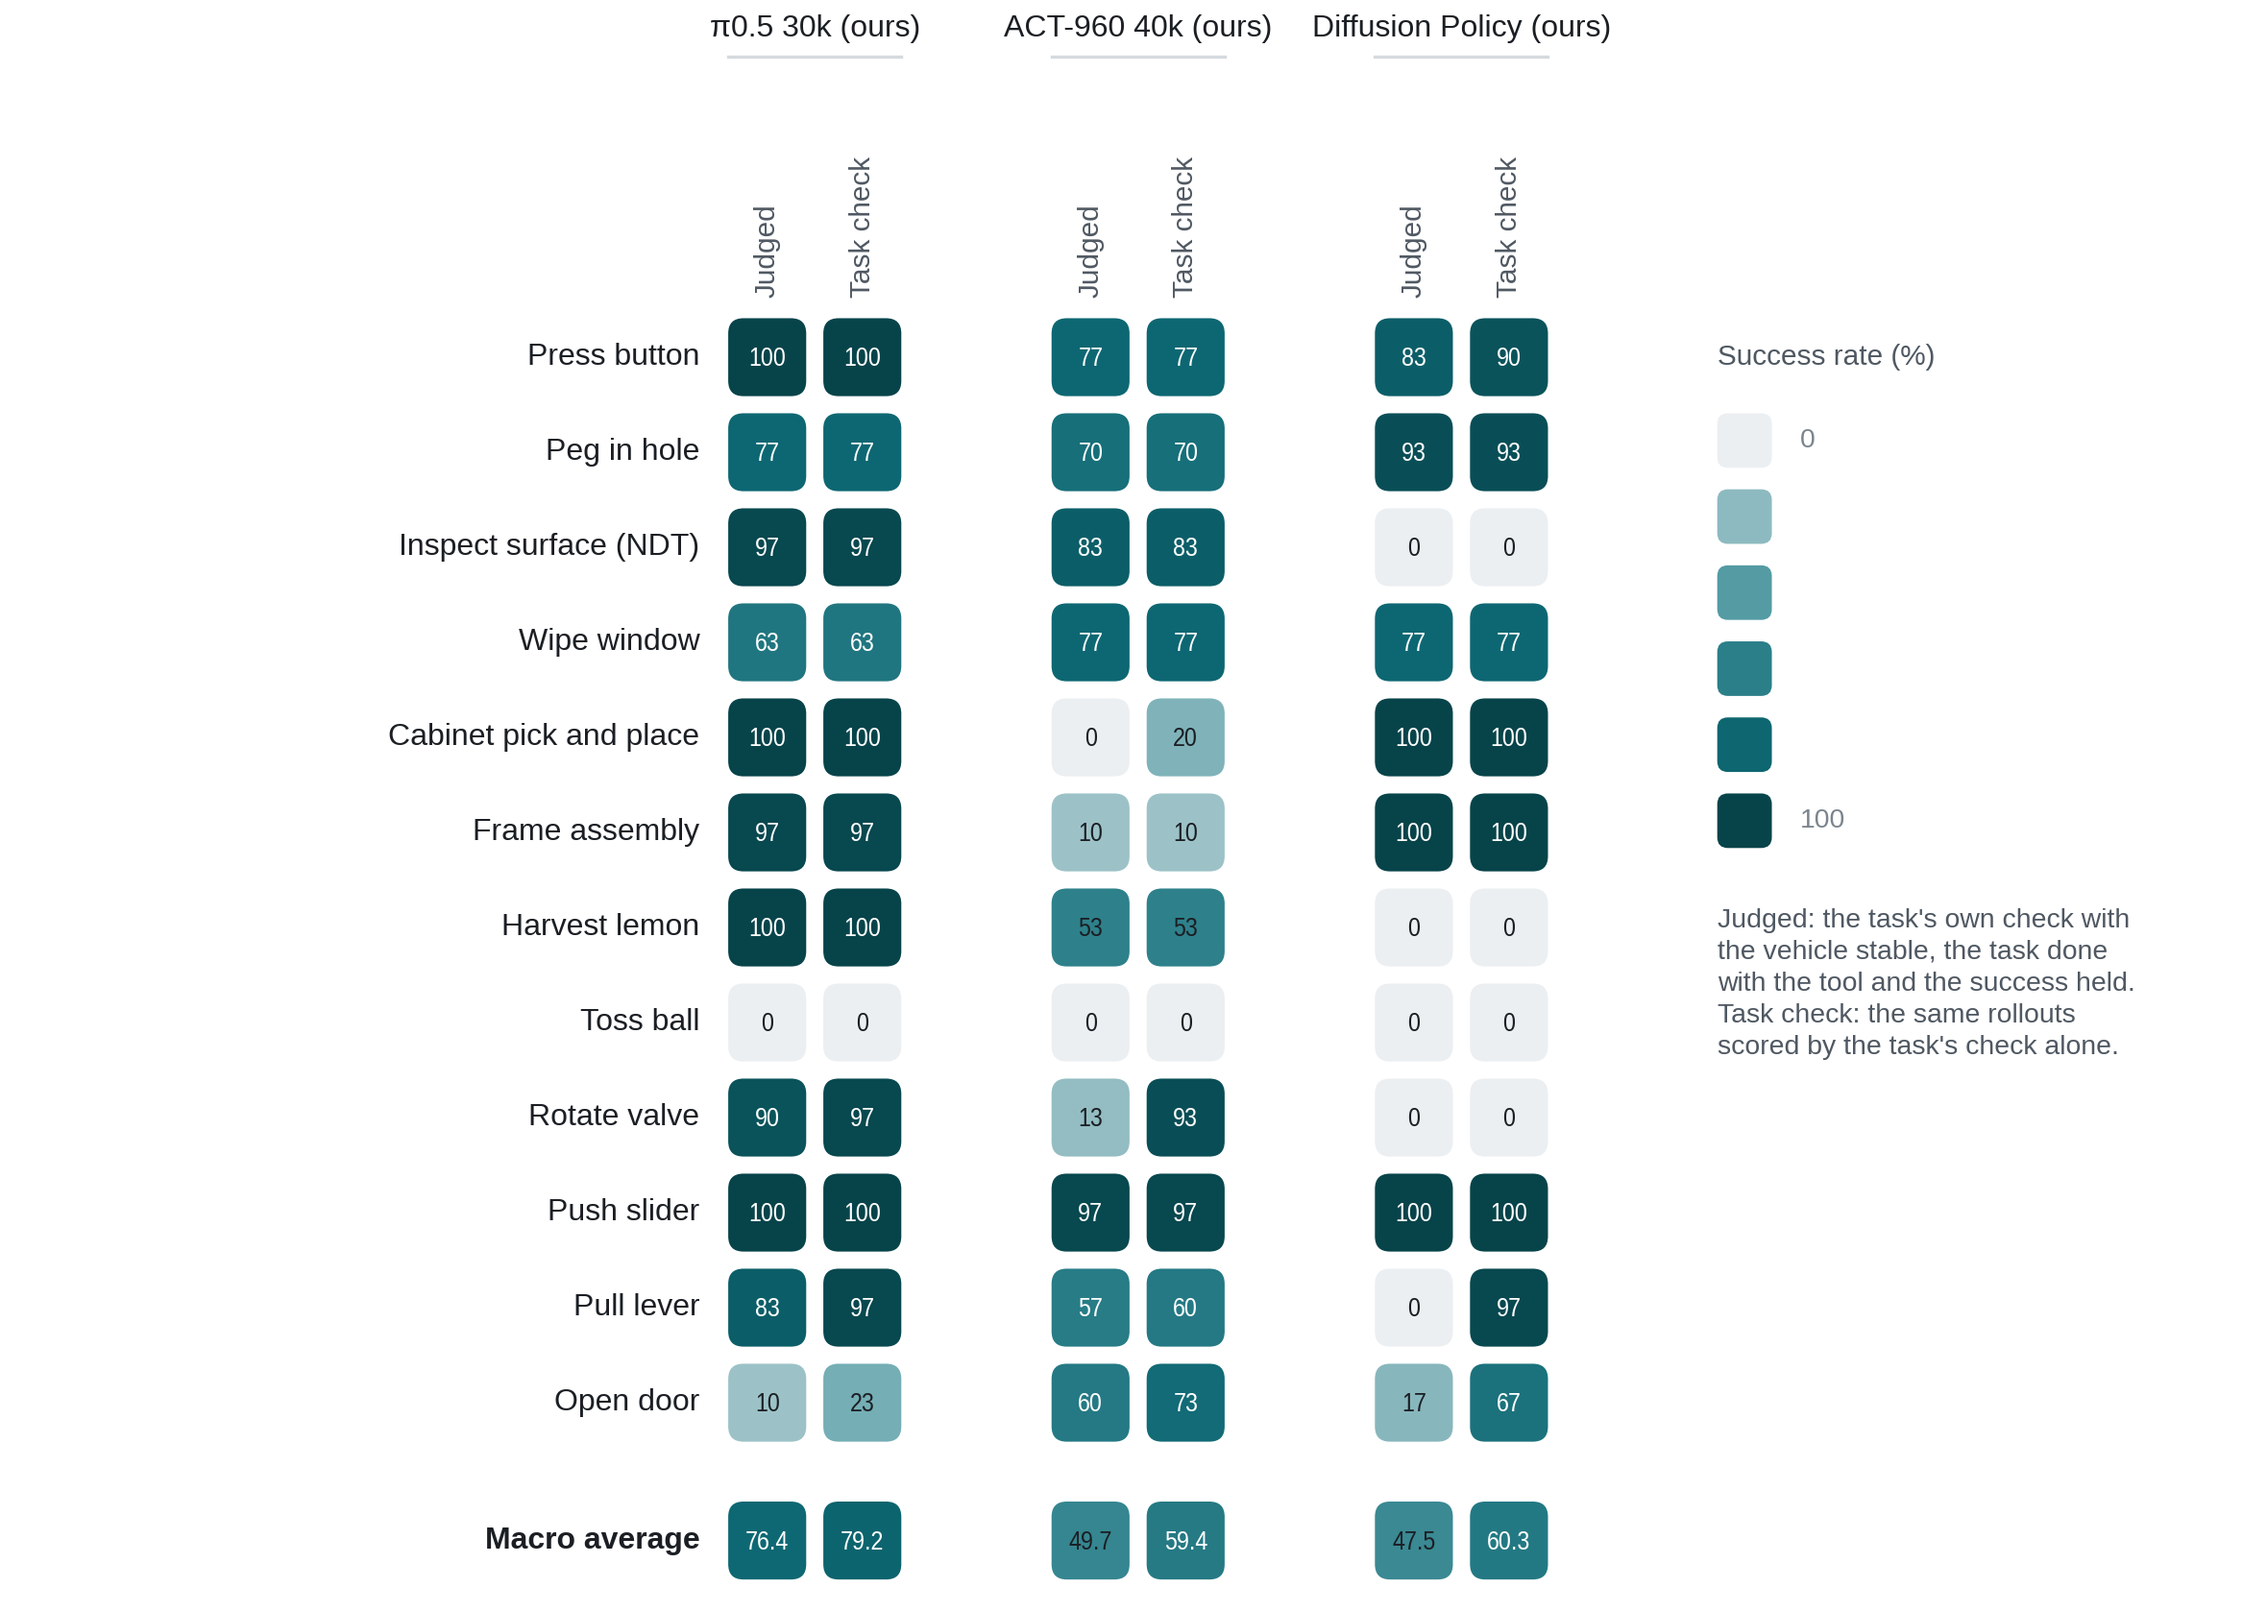
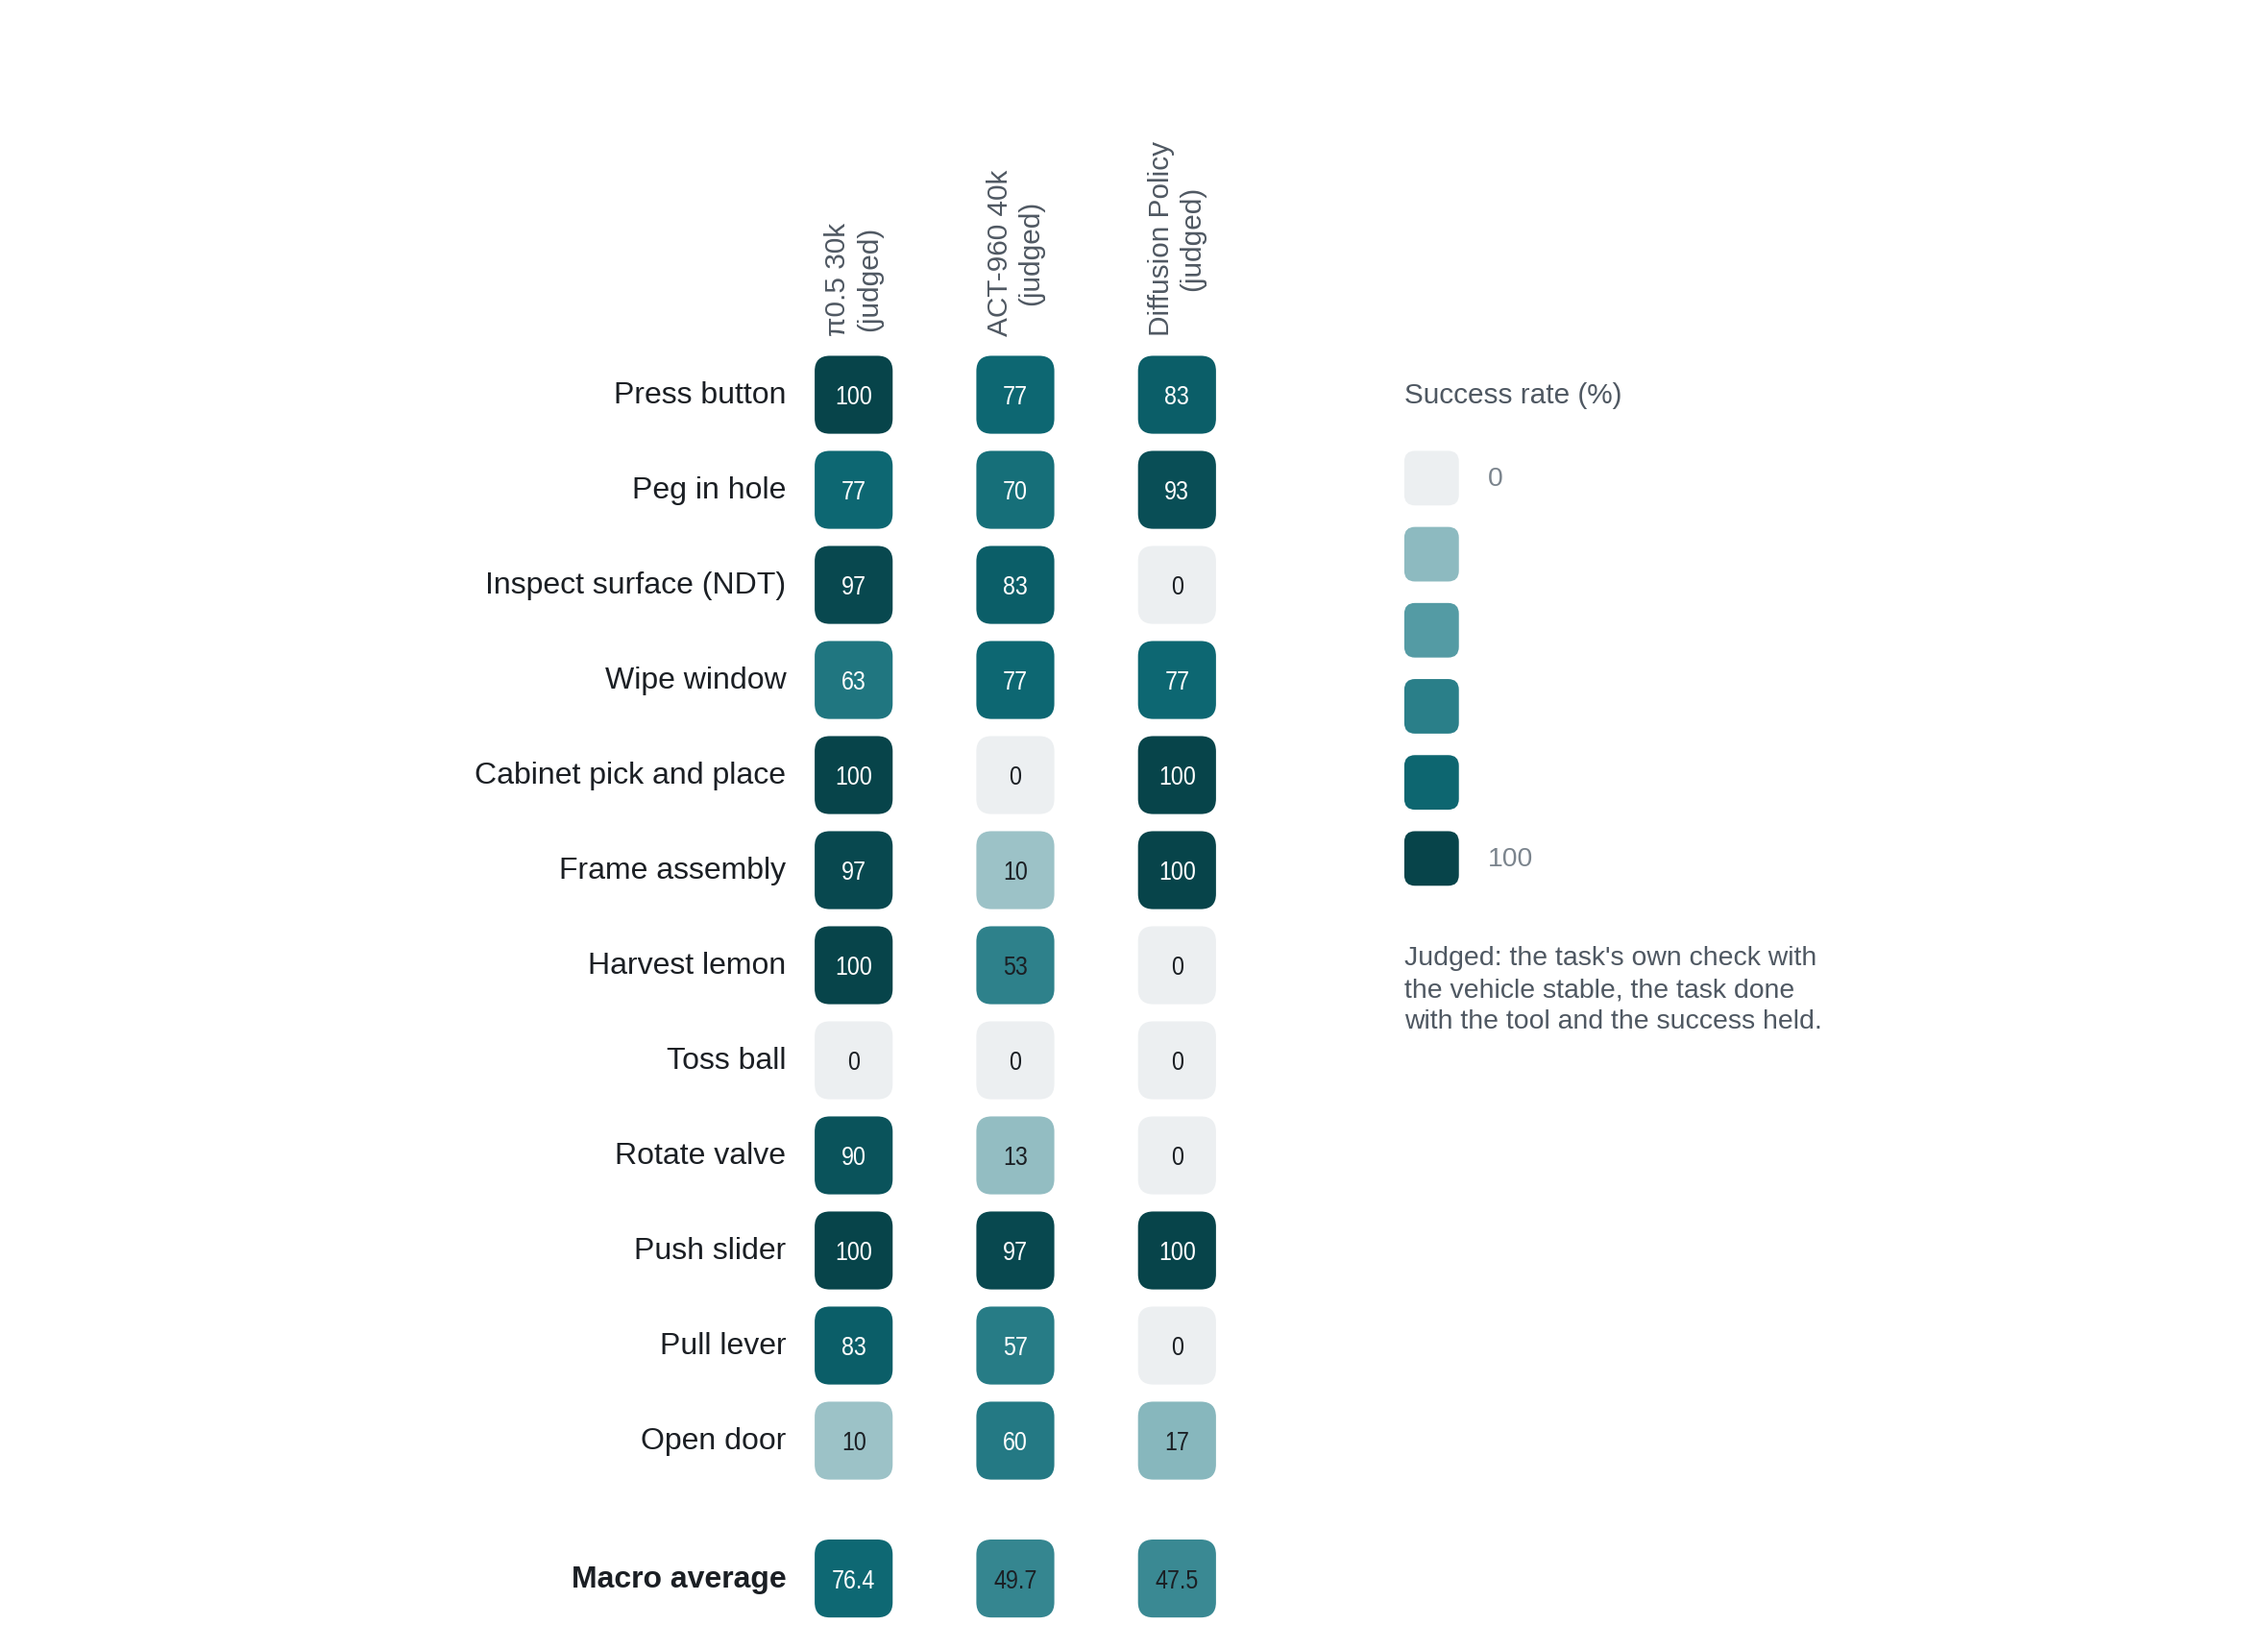
Figure 4A: judged success only, one column per policy labelled "(judged)"
The task's-own-check columns are dropped from Figure 4A, so every panel of "Results at a glance"
that compares the three policies shows judged success; the caption is shortened to match.

Claude-Session: https://claude.ai/code/session_0153WRfwynQfnNf1GwfGhbhJ

diff --git a/index.html b/index.html
@@ -696,8 +696,8 @@
       </div>
       <div class="wrap wide">
         <figure class="figure">
-          <a href="assets/benchmark/figures/fig4a_default_grid.png" target="_blank" rel="noopener" title="Open the full-size figure"><img src="assets/benchmark/figures/fig4a_default_grid.png" width="2360" height="1678" alt="Grid of success rates on the default condition: twelve tasks by policy, pi0.5 30k, ACT-960 40k and Diffusion Policy, each with the judged success and the task's own check."></a>
-          <figcaption><b>Figure 4A.</b> Success rate per task on the default condition with the judged protocol: π0.5 fully fine-tuned (30k steps), ACT-960 (40k steps, 8 of each 16 predicted actions executed, no temporal ensembling) and Diffusion Policy (the final checkpoint, 120 epochs). Each policy has two columns on the same 30 rollouts: the judged success and the task's own check alone. Teal intensity is the success rate, grey is 0 %; the last row is the macro average over the twelve tasks. The two differ where a policy meets the task's check without doing the task with its tool: ACT-960 turns the valve without holding it (28 of 30 by the check, 4 judged), and Diffusion Policy moves the lever up without the bar in its gripper (29 vs 0) and passes the door check in 20 rollouts but keeps it passing for the required second in only 5. π0.5 keeps 275 of its 285 checked successes, ACT-960 179 of 214 and Diffusion Policy 171 of 217.</figcaption>
+          <a href="assets/benchmark/figures/fig4a_default_grid.png" target="_blank" rel="noopener" title="Open the full-size figure"><img src="assets/benchmark/figures/fig4a_default_grid.png" width="2360" height="1717" alt="Grid of judged success rates on the default condition: twelve tasks by policy, pi0.5 30k, ACT-960 40k and Diffusion Policy."></a>
+          <figcaption><b>Figure 4A.</b> Judged success rate per task on the default condition: π0.5 fully fine-tuned (30k steps), ACT-960 (40k steps, 8 of each 16 predicted actions executed, no temporal ensembling) and Diffusion Policy (the final checkpoint, 120 epochs). Teal intensity is the success rate out of 30 rollouts, grey is 0 %; the last row is the macro average over the twelve tasks.</figcaption>
         </figure>
         <figure class="figure">
           <a href="assets/benchmark/figures/fig4b_default_ci.png" target="_blank" rel="noopener" title="Open the full-size figure"><img src="assets/benchmark/figures/fig4b_default_ci.png" width="2360" height="1780" alt="Dot plot with confidence intervals: per-task judged success on the default condition of pi0.5 30k, ACT-960 40k and Diffusion Policy."></a>
